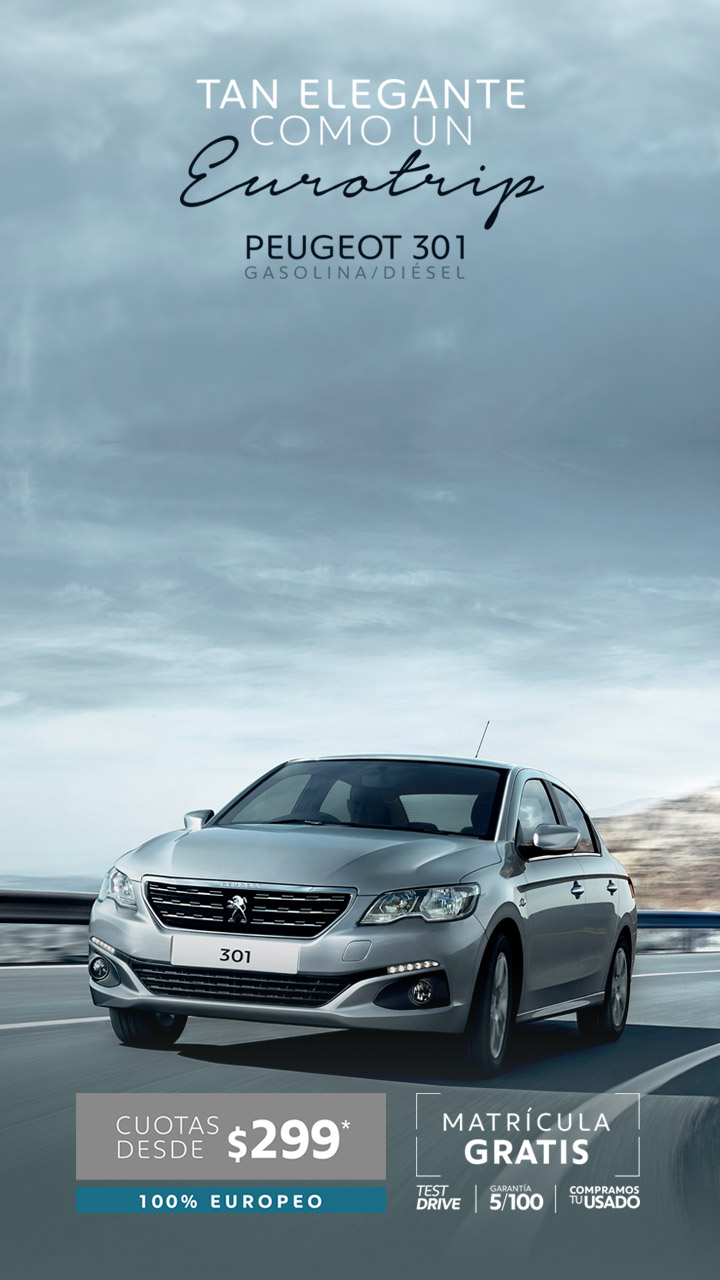
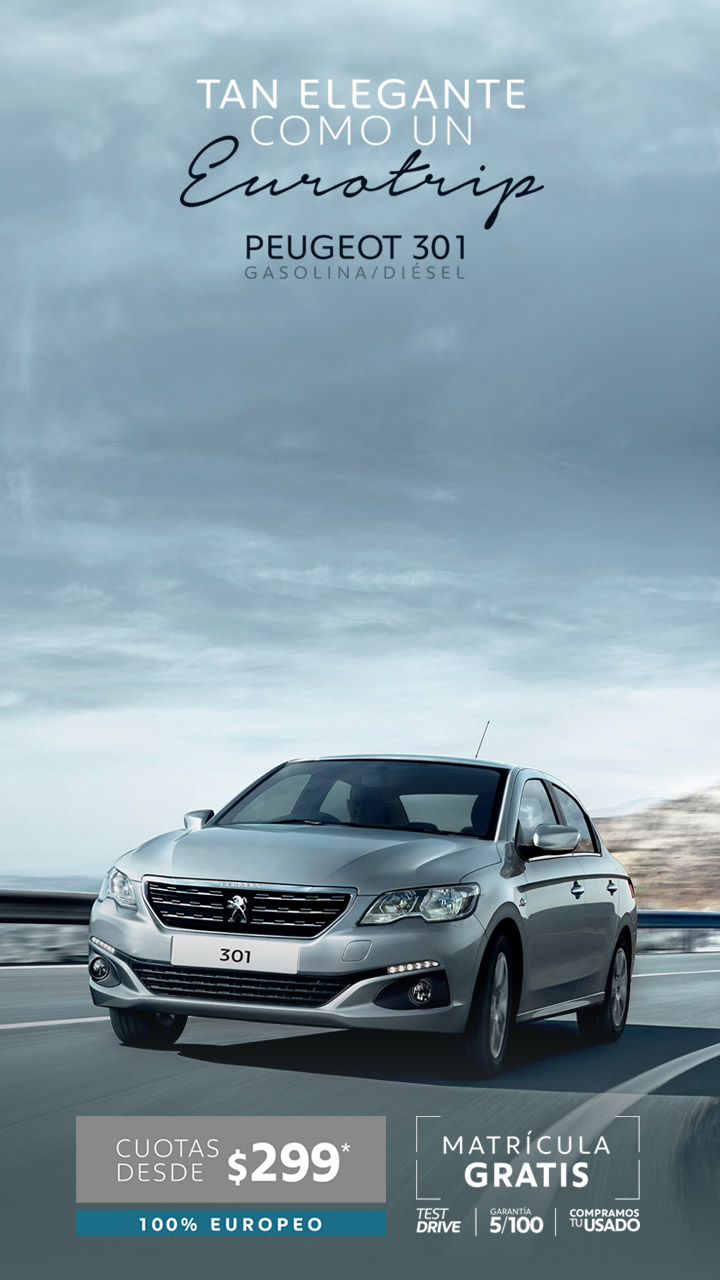
CSS height

Changed region(s): [[0.0917, 0.8438, 0.55, 0.9688], [0.6111, 0.875, 0.8861, 0.9688], [0.5806, 0.9062, 0.6417, 0.9688]]

diff --git a/public/stylesheets/301marzo/landing-301marzo.css b/public/stylesheets/301marzo/landing-301marzo.css
@@ -74,7 +74,7 @@ input[type="submit"] {
   #crmWebToEntityForm{
     background-color: rgba(205, 200, 190, 0.25);
     width: 66% !important;
-    top: 18%;
+    top: 20%;
     padding: 8px !important;
     left: 50% !important;
     margin-left: -35.5%;
@@ -290,7 +290,7 @@ input[type="submit"] {
 
   .pg-landing-301-bg{
     background-image: url("/images/301marzo/responsive.jpg");
-    height: 100%;
+    height: 115%;
   }
 
   .#crmWebToEntityForm{
